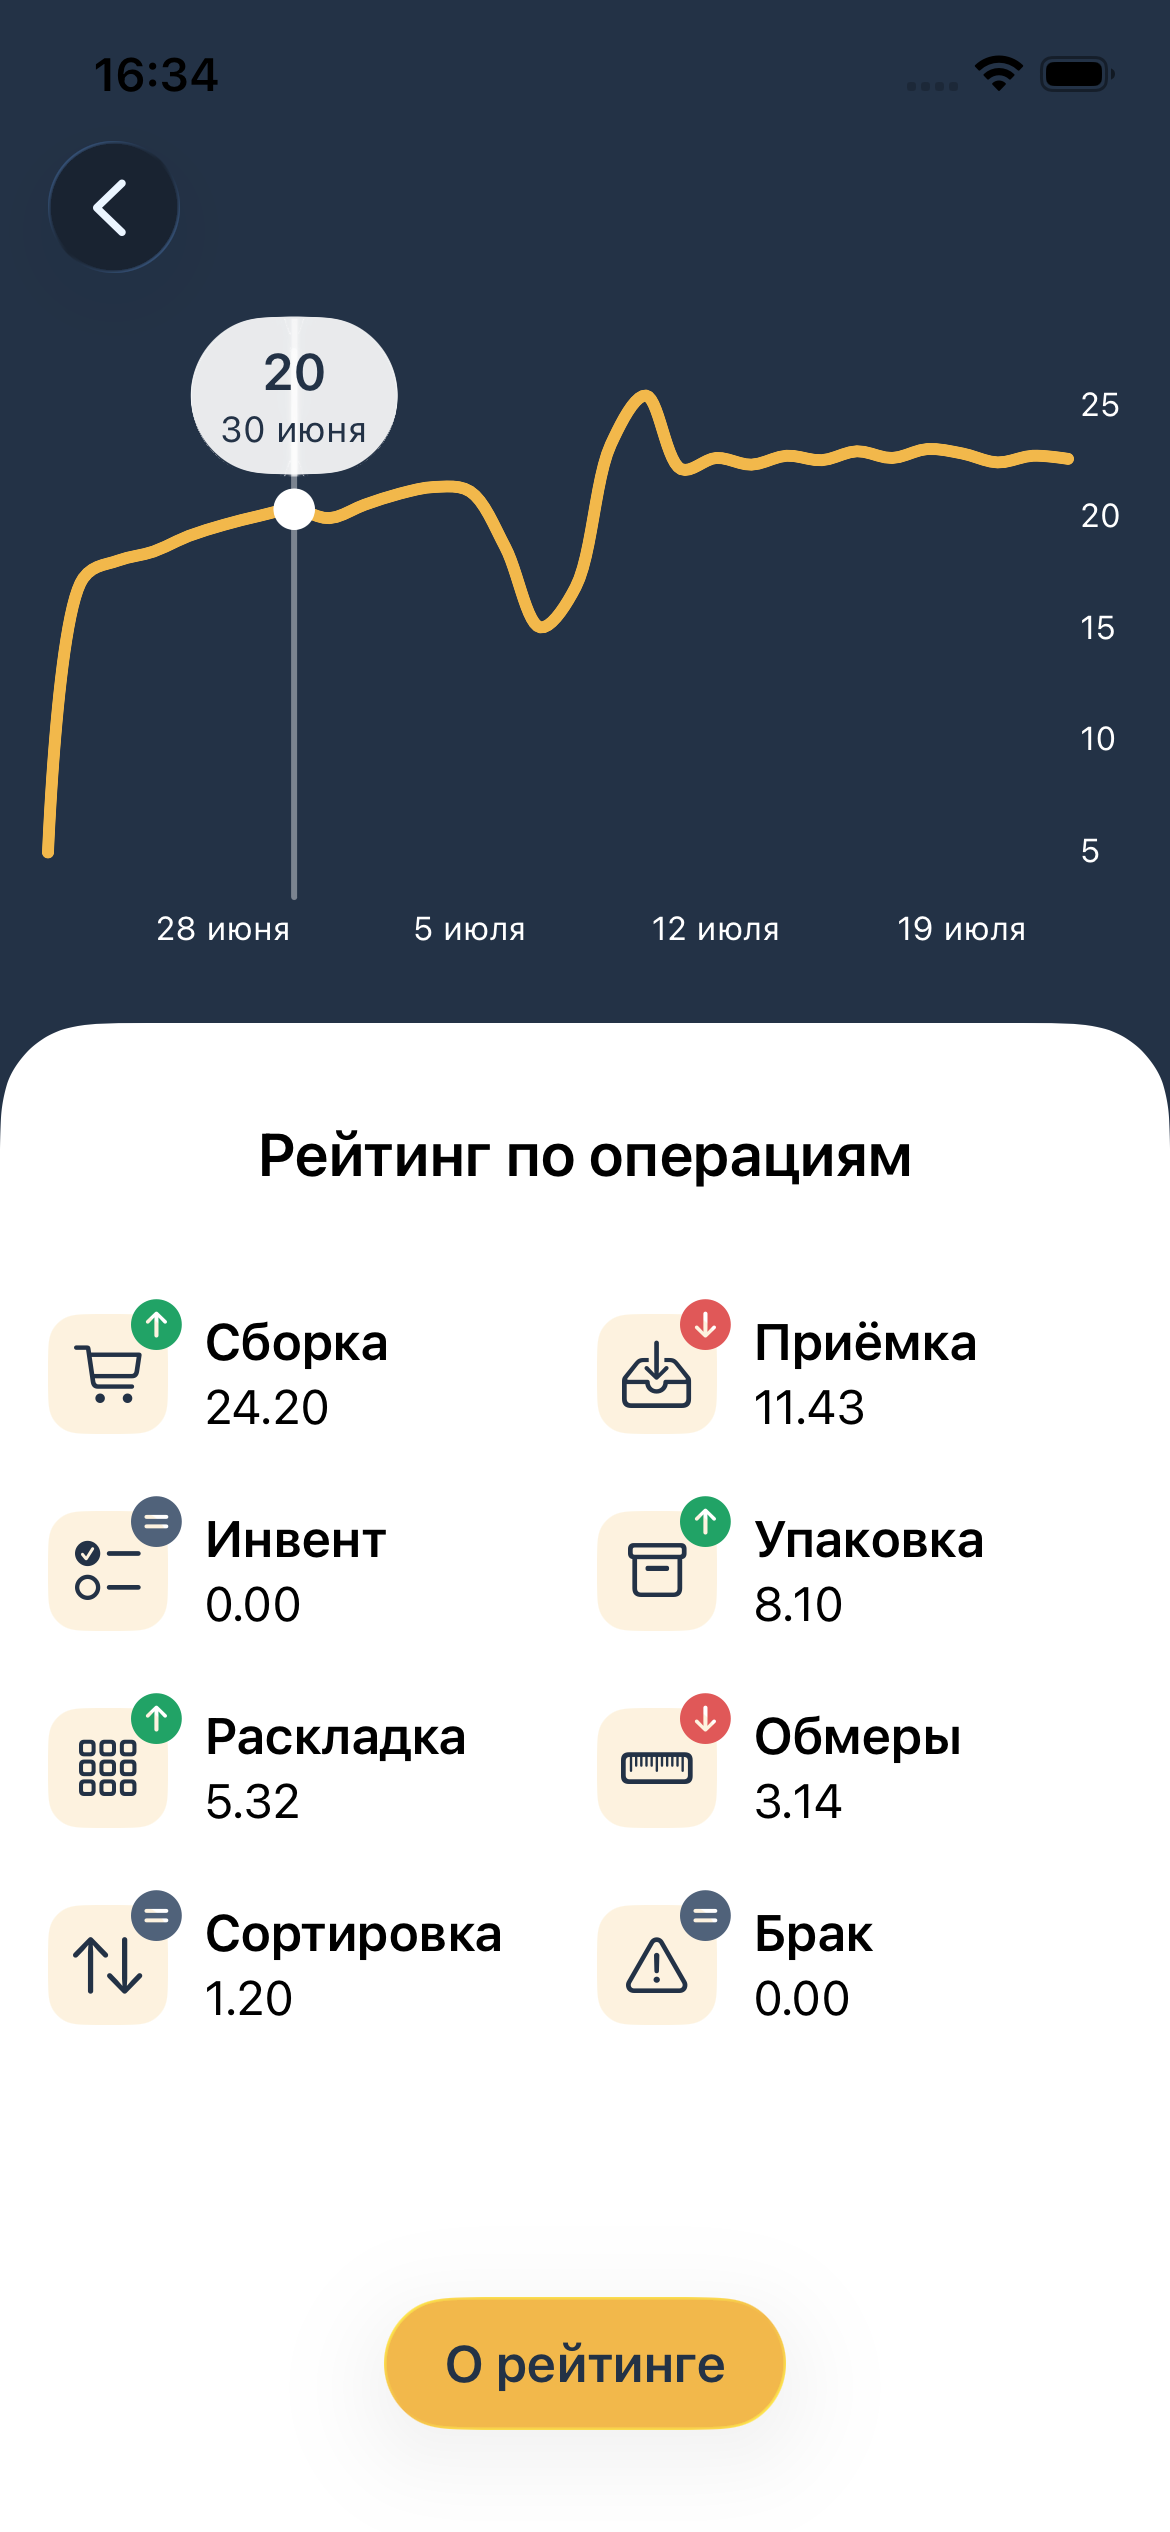
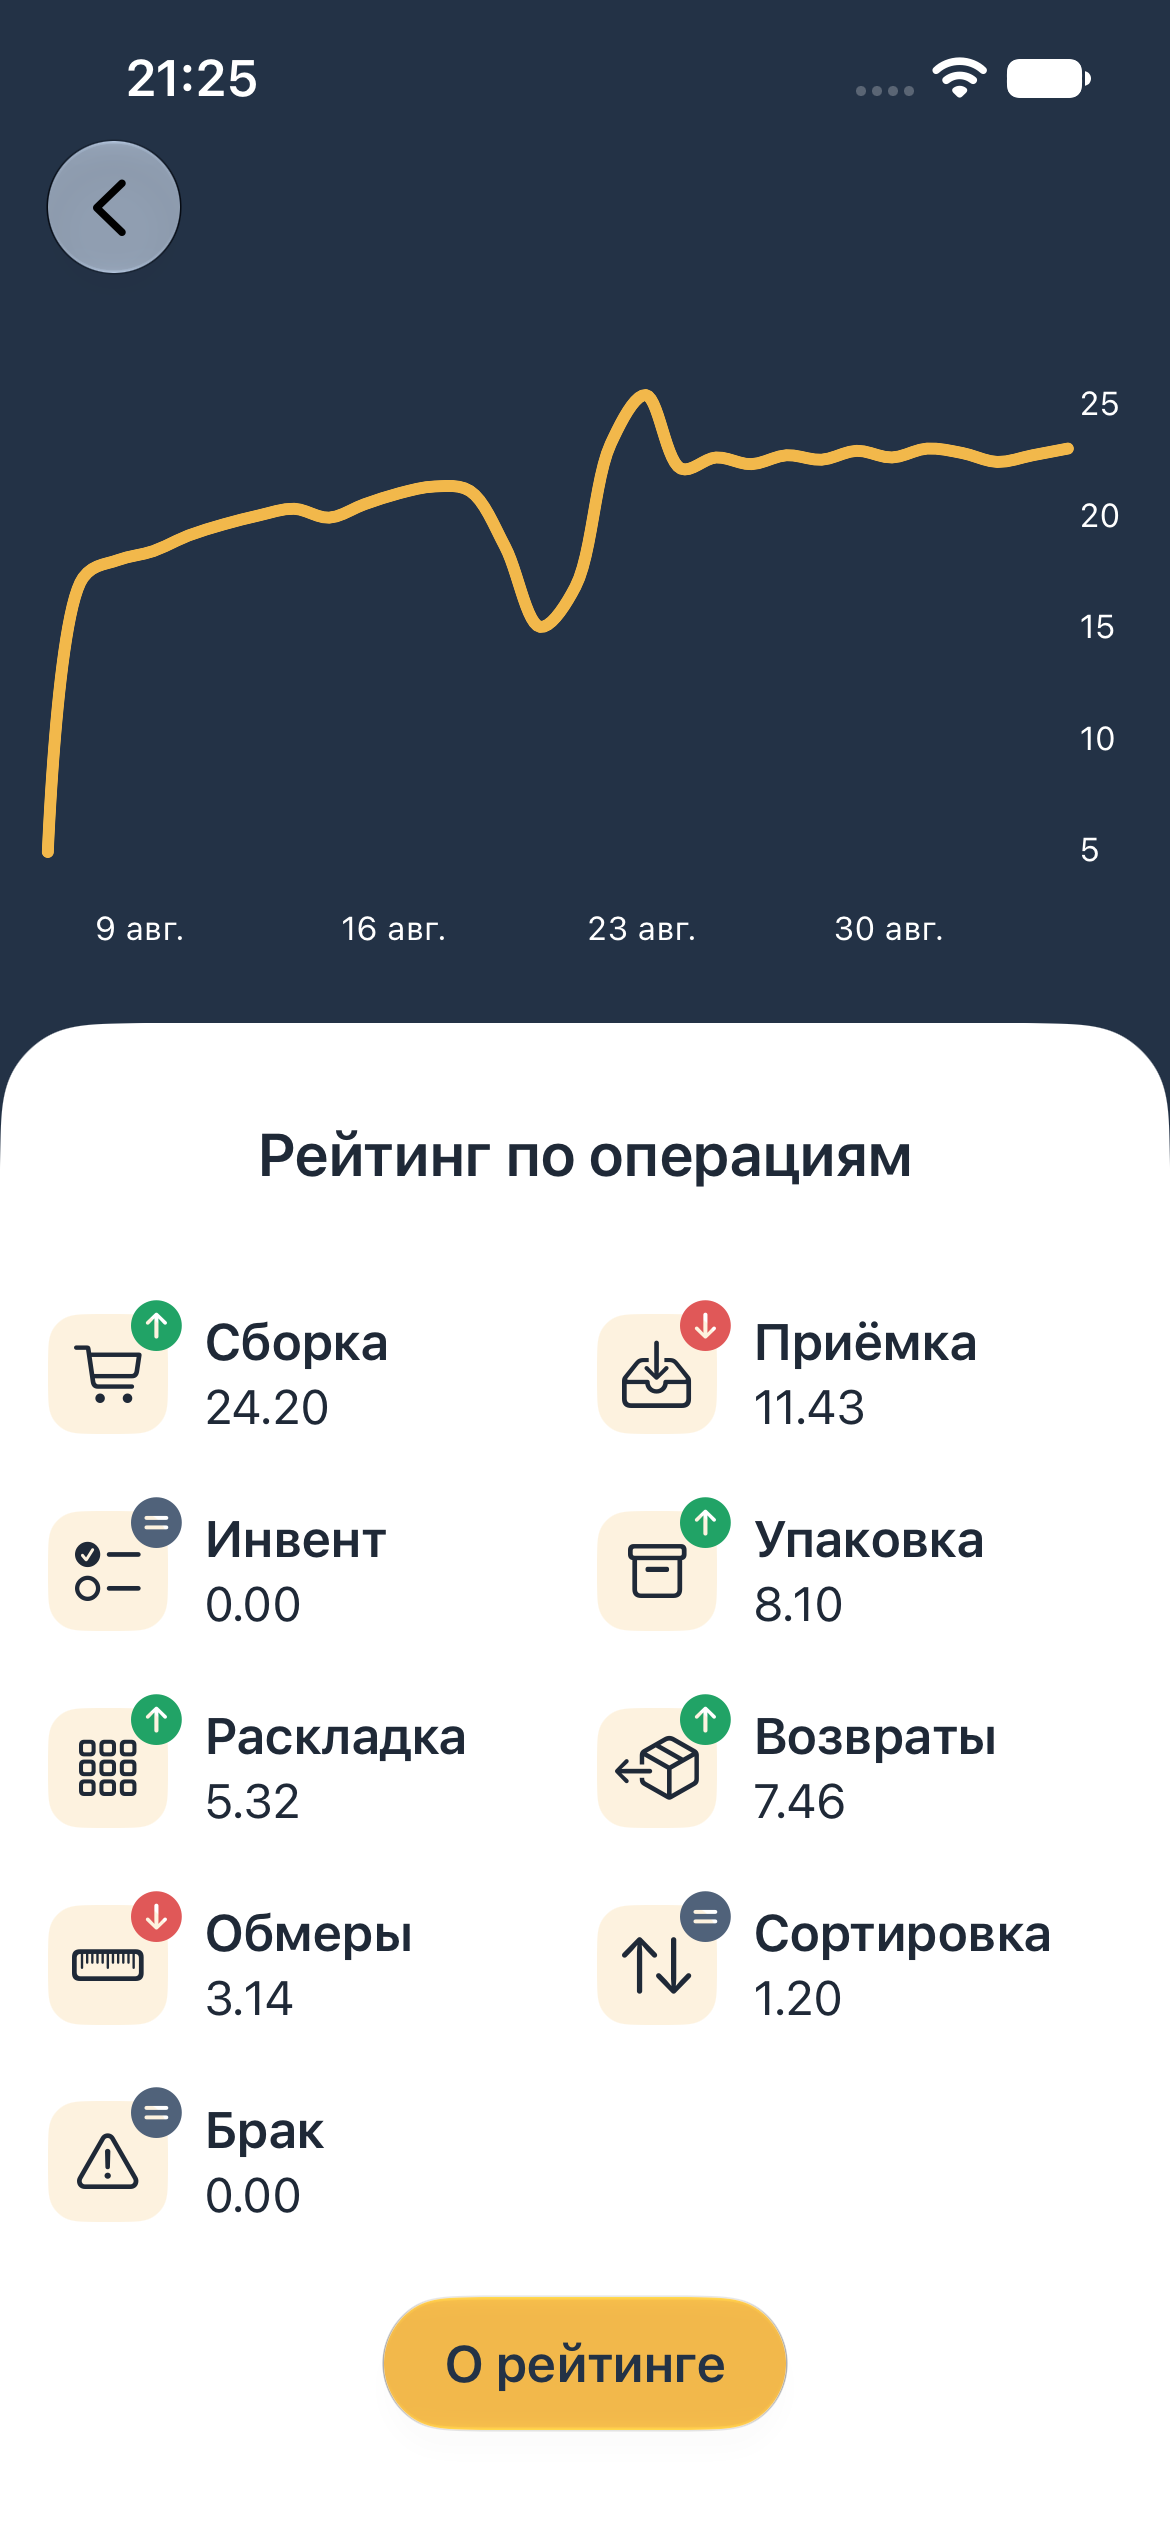
docs(readme): refresh project demos and screenshots

diff --git a/WMS/Shared/Components/ScannerView.swift b/WMS/Shared/Components/ScannerView.swift
@@ -42,6 +42,7 @@ struct ScannerView: View {
             }
             .padding(.horizontal, 10)
             .foregroundStyle(ColorPalette.textInverted)
+            .shadow(color: .black.opacity(0.55), radius: 6, y: 1)
             .opacity(isScanningEnabled ? 0.35 : 0.85)
         }
         .onLongPressGesture(minimumDuration: .infinity, maximumDistance: .infinity) { } onPressingChanged: { isPressing in

diff --git a/README.md b/README.md
@@ -1,13 +1,13 @@
 # WMS
 
-| Putaway | Picking |
-|:---:|:---:|
-| <img src="assets/putaway-demo.gif" width="260" height="565" alt="Putaway flow demo"> | <img src="assets/picking-demo.gif" width="260" height="565" alt="Picking flow demo"> |
-| **Putaway:** the operator places items into freely selected storage cells. | **Picking:** the operator collects items according to the task list. |
+| Putaway | Picking | Returns check |
+|:---:|:---:|:---:|
+| <img src="assets/putaway-demo.gif" width="260" height="565" alt="Putaway flow demo"> | <img src="assets/picking-demo.gif" width="260" height="565" alt="Picking flow demo"> | <img src="assets/returns-demo.gif" width="260" height="565" alt="Returns check flow demo"> |
+| **Putaway:** place items into freely selected storage cells. | **Picking:** collect items according to the task list. | **Returns check:** inspect returned items and record a decision. |
 
-A warehouse operations app built with SwiftUI. Three warehouse flows are implemented, all driven by API-style mock JSON. In Putaway, an operator receives a task, reviews a short onboarding flow, finds the container the items arrived in and scans it, scans a storage cell, scans items into it one by one, switches cells when one is full, and finishes by encoding where every item ended up. In Picking, the operator receives a task, reviews a short onboarding flow, sees the current item, scans a numeric label code, handles missing or replacement items, moves to the next item, and finishes the task by encoding the result into an API-style JSON request. In Returns check, the operator receives a task of returned items, reviews a short onboarding flow, scans the container they arrived in, binds a container for good items and one for items going to inspection, scans an item to take it in hand, reads why the customer sent it back, inspects it, taps one of three decisions, photographs the item when the decision is defect or a wrong item, and finishes by encoding a decision, a target container, and a photo for every checked item.
+A SwiftUI app for warehouse operators, with three complete flows: Putaway, Picking, and Returns check. Tasks are loaded from bundled mock JSON, and completed results are encoded as API-style requests.
 
-Putaway, Picking, and Returns check are the implemented warehouse modules. The Profile tab is the other developed area and covers earnings history, an operator rating chart, warehouse tariffs, work documents, a support chat, and the app settings. The app is designed to grow into a larger warehouse app with additional warehouse operations.
+The Profile tab covers earnings history, operator ratings, warehouse tariffs, work documents, support chat, and settings. The app supports light and dark themes.
 
 ## Project Status
 
@@ -15,21 +15,39 @@ In development. Putaway, Picking, and Returns check are complete end to end and 
 
 ## Screenshots
 
-| Operations menu | Get task | Item & scanner |
-|:---:|:---:|:---:|
-| <img src="assets/operations-list.png" width="230"> | <img src="assets/picking-get-task.png" width="230"> | <img src="assets/picking-task.png" width="230"> |
+### Operations menu
 
-| Task complete | Profile | Finance history |
-|:---:|:---:|:---:|
-| <img src="assets/picking-finish.png" width="230"> | <img src="assets/profile.png" width="230"> | <img src="assets/profile-operations.png" width="230"> |
+<img src="assets/operations-list.png" width="230" alt="Warehouse operations menu">
 
-| Rating | Documents | Tariffs |
-|:---:|:---:|:---:|
-| <img src="assets/profile-rating.png" width="230"> | <img src="assets/profile-documents.png" width="230"> | <img src="assets/profile-tariffs.png" width="230"> |
+### Putaway
 
-| Support chat |
-|:---:|
-| <img src="assets/profile-support.png" width="230"> |
+| Get task | Choose a cell |
+|:---:|:---:|
+| <img src="assets/putaway-get-task.png" width="230" alt="Get a putaway task"> | <img src="assets/putaway-task-main.png" width="230" alt="Putaway task before choosing a storage cell"> |
+| **Items in the cell** | **Task complete** |
+| <img src="assets/putaway-task-cell.png" width="230" alt="Putaway task with two items placed in a cell"> | <img src="assets/putaway-finish.png" width="230" alt="Completed putaway task"> |
+
+### Picking
+
+| Get task | Item & scanner | Task complete |
+|:---:|:---:|:---:|
+| <img src="assets/picking-get-task.png" width="230" alt="Get a picking task"> | <img src="assets/picking-task.png" width="230" alt="Picking task with the current item and scanner"> | <img src="assets/picking-finish.png" width="230" alt="Completed picking task"> |
+
+### Returns check
+
+| Get task | Items & containers | Task complete |
+|:---:|:---:|:---:|
+| <img src="assets/returns-get-task.png" width="230" alt="Get a returns check task"> | <img src="assets/returns-task.png" width="230" alt="Returns task with the scanner, result containers, and items to check"> | <img src="assets/returns-finish.png" width="230" alt="Completed returns task with decision totals"> |
+
+### Profile
+
+| Light theme | Dark theme | Settings |
+|:---:|:---:|:---:|
+| <img src="assets/profile.png" width="230" alt="Profile in the light theme"> | <img src="assets/profile-dark.png" width="230" alt="Profile in the dark theme"> | <img src="assets/profile-settings.png" width="230" alt="Theme, scan sound, and screen settings"> |
+| **Finance history** | **Rating** | **Tariffs** |
+| <img src="assets/profile-operations.png" width="230" alt="Finance history"> | <img src="assets/profile-rating.png" width="230" alt="Rating chart and per-operation ratings"> | <img src="assets/profile-tariffs.png" width="230" alt="Warehouse tariffs including returns checks"> |
+| **Documents** | **Support chat** | |
+| <img src="assets/profile-documents.png" width="230" alt="Work documents"> | <img src="assets/profile-support.png" width="230" alt="Support chat"> | |
 
 ## Features
 
@@ -53,7 +71,8 @@ In development. Putaway, Picking, and Returns check are complete end to end and 
 - Storage cell card with a fill indicator against the cell capacity of the task.
 - Item list that switches by phase: items left in the cart before a cell is chosen, items already placed once it is.
 - The item just scanned moves to the top of the list, so the list itself confirms the scan.
-- Rejection only when the cell is out of space; re-scanning an item that already lies in the current cell is accepted.
+- An item outside the task is rejected on its first scan and accepted after the same code is scanned again for confirmation; it occupies cell capacity without increasing task progress.
+- Re-scanning an item that already lies in the current cell is accepted, while a new placement is rejected when the cell is out of space.
 - Task progress in the navigation bar, with a menu breaking it down into placed and untouched items.
 - Finish button that appears once the last item is placed, instead of jumping to the finish screen on its own.
 - Early finish from the task menu, behind a confirmation dialog, for when the rest of the items cannot be placed.
@@ -75,7 +94,7 @@ In development. Putaway, Picking, and Returns check are complete end to end and 
 
 ### Returns check
 
-- Returns flow: fetch task, onboarding, scan the returns container, bind the result containers, scan a returned item, review the return reason, choose a decision, photograph the item, finish screen.
+- Returns flow: fetch task, onboarding, scan the returns container, bind the result containers, scan a returned item, review the return reason, choose a decision, photograph the item when required, finish screen.
 - One-time illustrated Returns onboarding stored with `@AppStorage`, with replay from the container and task menus.
 - Container check before the task opens: a card names the container the returns arrived in and where it stands, and only the code of that container starts the check.
 - Two result containers bound by scanning on the same screen, one for good items and one for items going to inspection; a code that is not a container, the source container itself, and a code already bound are all rejected.
@@ -85,12 +104,12 @@ In development. Putaway, Picking, and Returns check are complete end to end and 
 - Photo required for the defect and wrong item decisions: the camera opens with a hint written for that decision, and a cancelled shot leaves the item unchecked.
 - The shot is downscaled to 2048 px and compressed to JPEG for the request, with a separate thumbnail kept for the list row.
 - Scanning the next item is rejected until the item in hand gets a decision.
-- The whole task in one list: items left to check on top, checked items below with the newest first and the photo of the check on the row, badged with the decision.
+- The whole task in one list: items left to check on top, checked items below with the newest first and the decision shown as either an icon or a badged photo.
 - Re-scanning a checked item takes it back in hand, and a new decision overwrites the old one without moving the progress count.
 - Task progress in the navigation bar, with a menu breaking it down into checked and remaining items.
 - Finish button that appears once every item is checked and nothing is left in hand.
 - Early finish from the task menu, behind a confirmation dialog, for when the rest of the items cannot be checked.
-- API-style finish request encoding with a decision, a target container, and a photo per item, plus the IDs of the items left unchecked after an early finish.
+- API-style finish request encoding with a decision and target container per item, a photo when required, plus the IDs of the items left unchecked after an early finish.
 - Manual debug-only demo controls for walking the container and item scans without the camera.
 
 ### Profile
@@ -117,7 +136,8 @@ In development. Putaway, Picking, and Returns check are complete end to end and 
 
 ## Main Flows
 
-### Putaway
+<details>
+<summary>Putaway</summary>
 
 1. Open the Putaway module.
 2. Fetch a putaway task.
@@ -130,7 +150,10 @@ In development. Putaway, Picking, and Returns check are complete end to end and 
 9. After the last item is placed, the finish button appears; items that cannot be placed are left behind by finishing early from the task menu.
 10. Finish the task through the mock service, which encodes every item-to-cell placement into JSON.
 
-### Picking
+</details>
+
+<details>
+<summary>Picking</summary>
 
 1. Open the Picking module.
 2. Fetch a picking task.
@@ -143,7 +166,10 @@ In development. Putaway, Picking, and Returns check are complete end to end and 
 9. After all items are collected or skipped, the finish screen opens.
 10. Finish the task through the mock service, which encodes the result into JSON.
 
-### Returns check
+</details>
+
+<details>
+<summary>Returns check</summary>
 
 1. Open the Returns check module.
 2. Fetch a returns task.
@@ -155,10 +181,12 @@ In development. Putaway, Picking, and Returns check are complete end to end and 
 8. Inspect the item and tap one of the three decisions; until then the next scan is rejected.
 9. For the defect and wrong item decisions, photograph the item; the decision is not recorded without a shot.
 10. Put the item into the container its decision points to; either container can be swapped mid-task by tapping its chip and scanning a new code.
-11. The checked item moves into the checked part of the list and carries the photo of the check, badged with the decision.
+11. The checked item moves into the checked part of the list and shows its decision as an icon or a badged photo.
 12. Re-scan a checked item to take it back in hand and overwrite the decision.
 13. After the last item is checked, the finish button appears; unchecked items are left behind by finishing early from the task menu.
-14. Finish the task through the mock service, which encodes a decision, a container, and a photo for every checked item into JSON.
+14. Finish the task through the mock service, which encodes a decision and container for every checked item, plus a photo when required, into JSON.
+
+</details>
 
 ## Tech Stack
 
@@ -258,7 +286,7 @@ The repository includes a short picking demo guide with test item IDs and scanni
 - The mock service includes a test user ID for checking the task fetching error state.
 - Profile and warehouse task data are loaded from bundled mock JSON files.
 - The picking finish flow encodes collected, skipped, and replacement item IDs into JSON before completing the mock request.
-- The putaway finish flow encodes item-to-cell placements the same way, and the returns finish flow encodes a decision, a container, and a photo for every checked item.
+- The putaway finish flow encodes item-to-cell placements the same way, and the returns finish flow encodes a decision and container for every checked item, plus a photo when required.
 - The picking, putaway, and returns mock tasks share item IDs, so one set of printed codes works in all three modules. The returns task adds the reason each item came back.
 - The putaway and returns tasks open with a container scan, and the container card on screen shows the code the mock task expects. The returns module then takes the good and inspection containers from any two other codes carrying the container prefix.
 - Returns demo mode fills the photo step with a placeholder shot, because the simulator has no camera.
